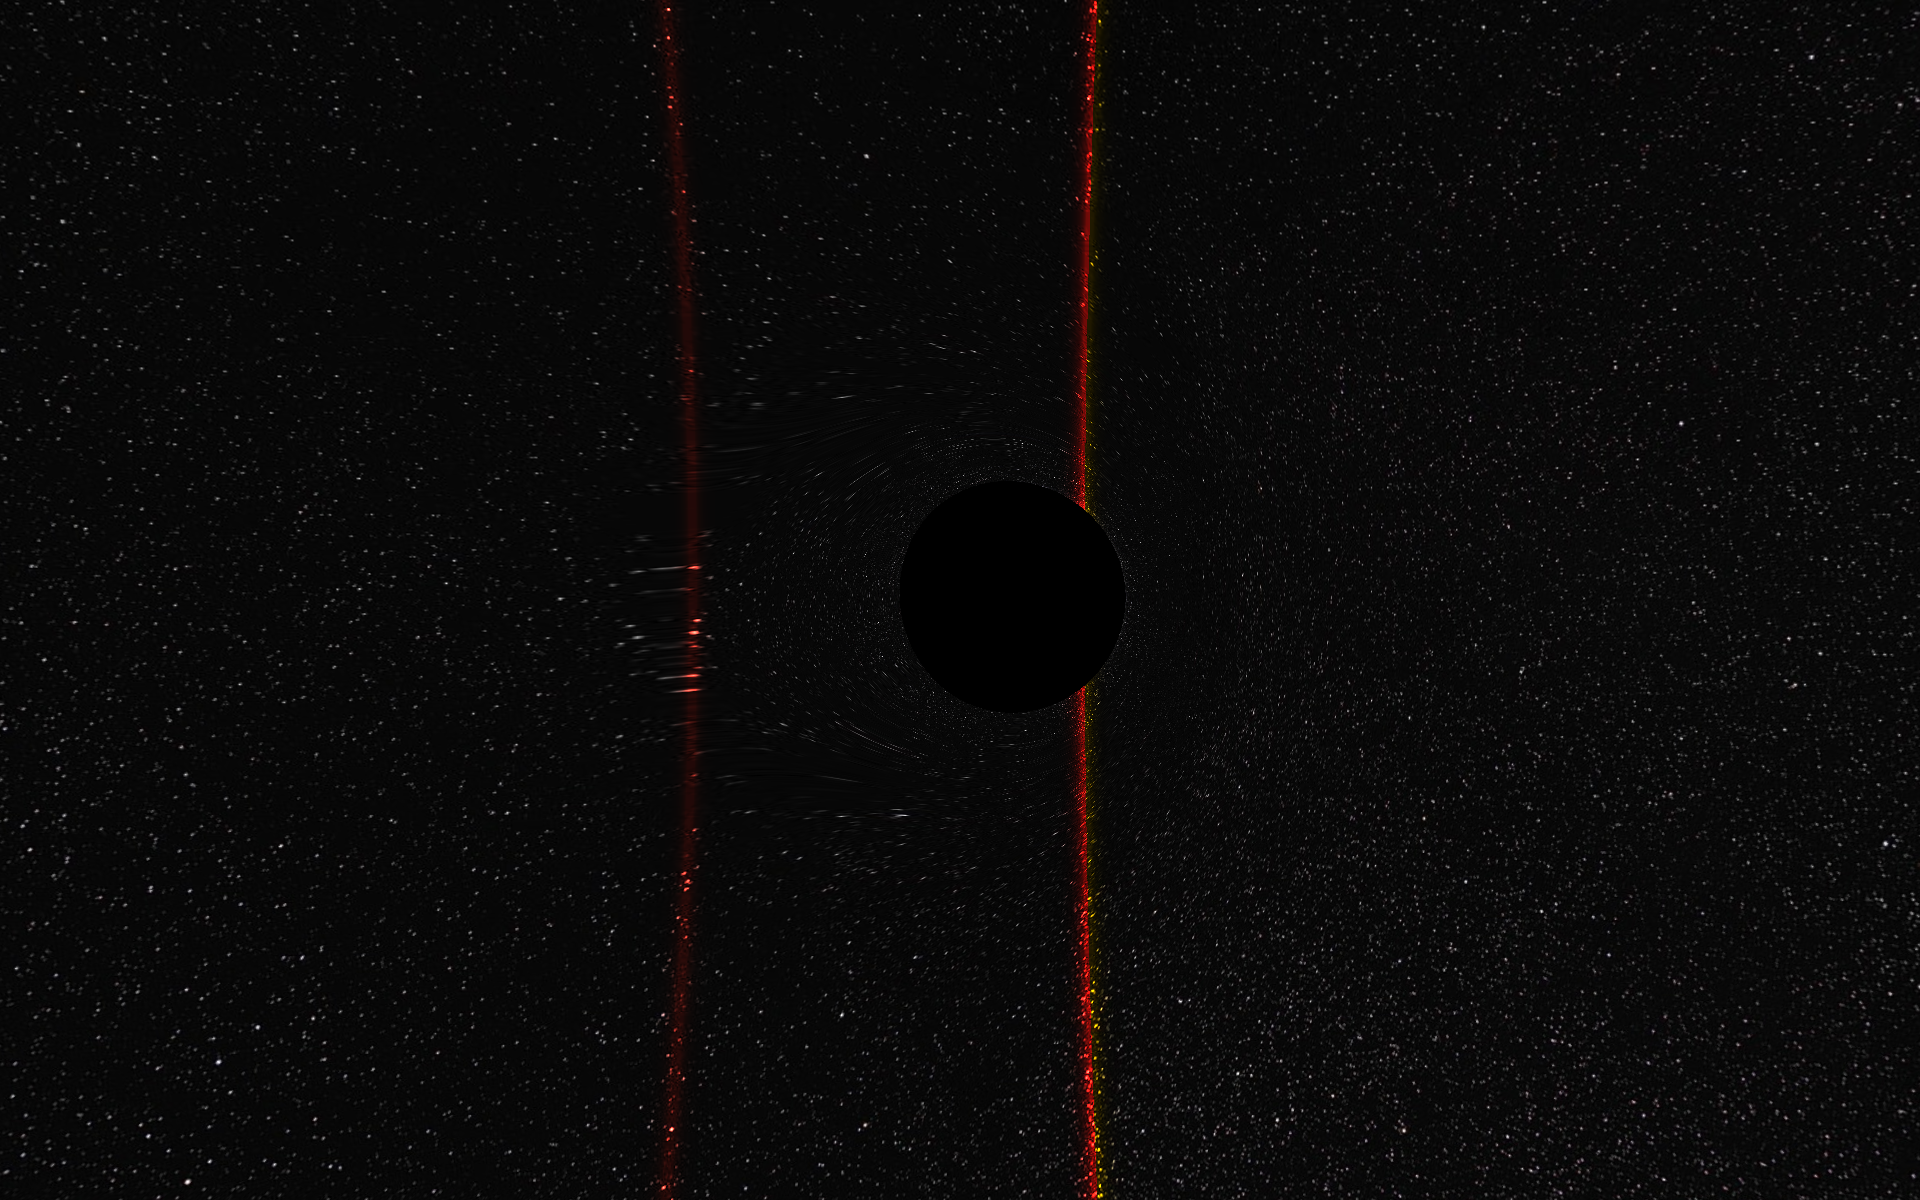
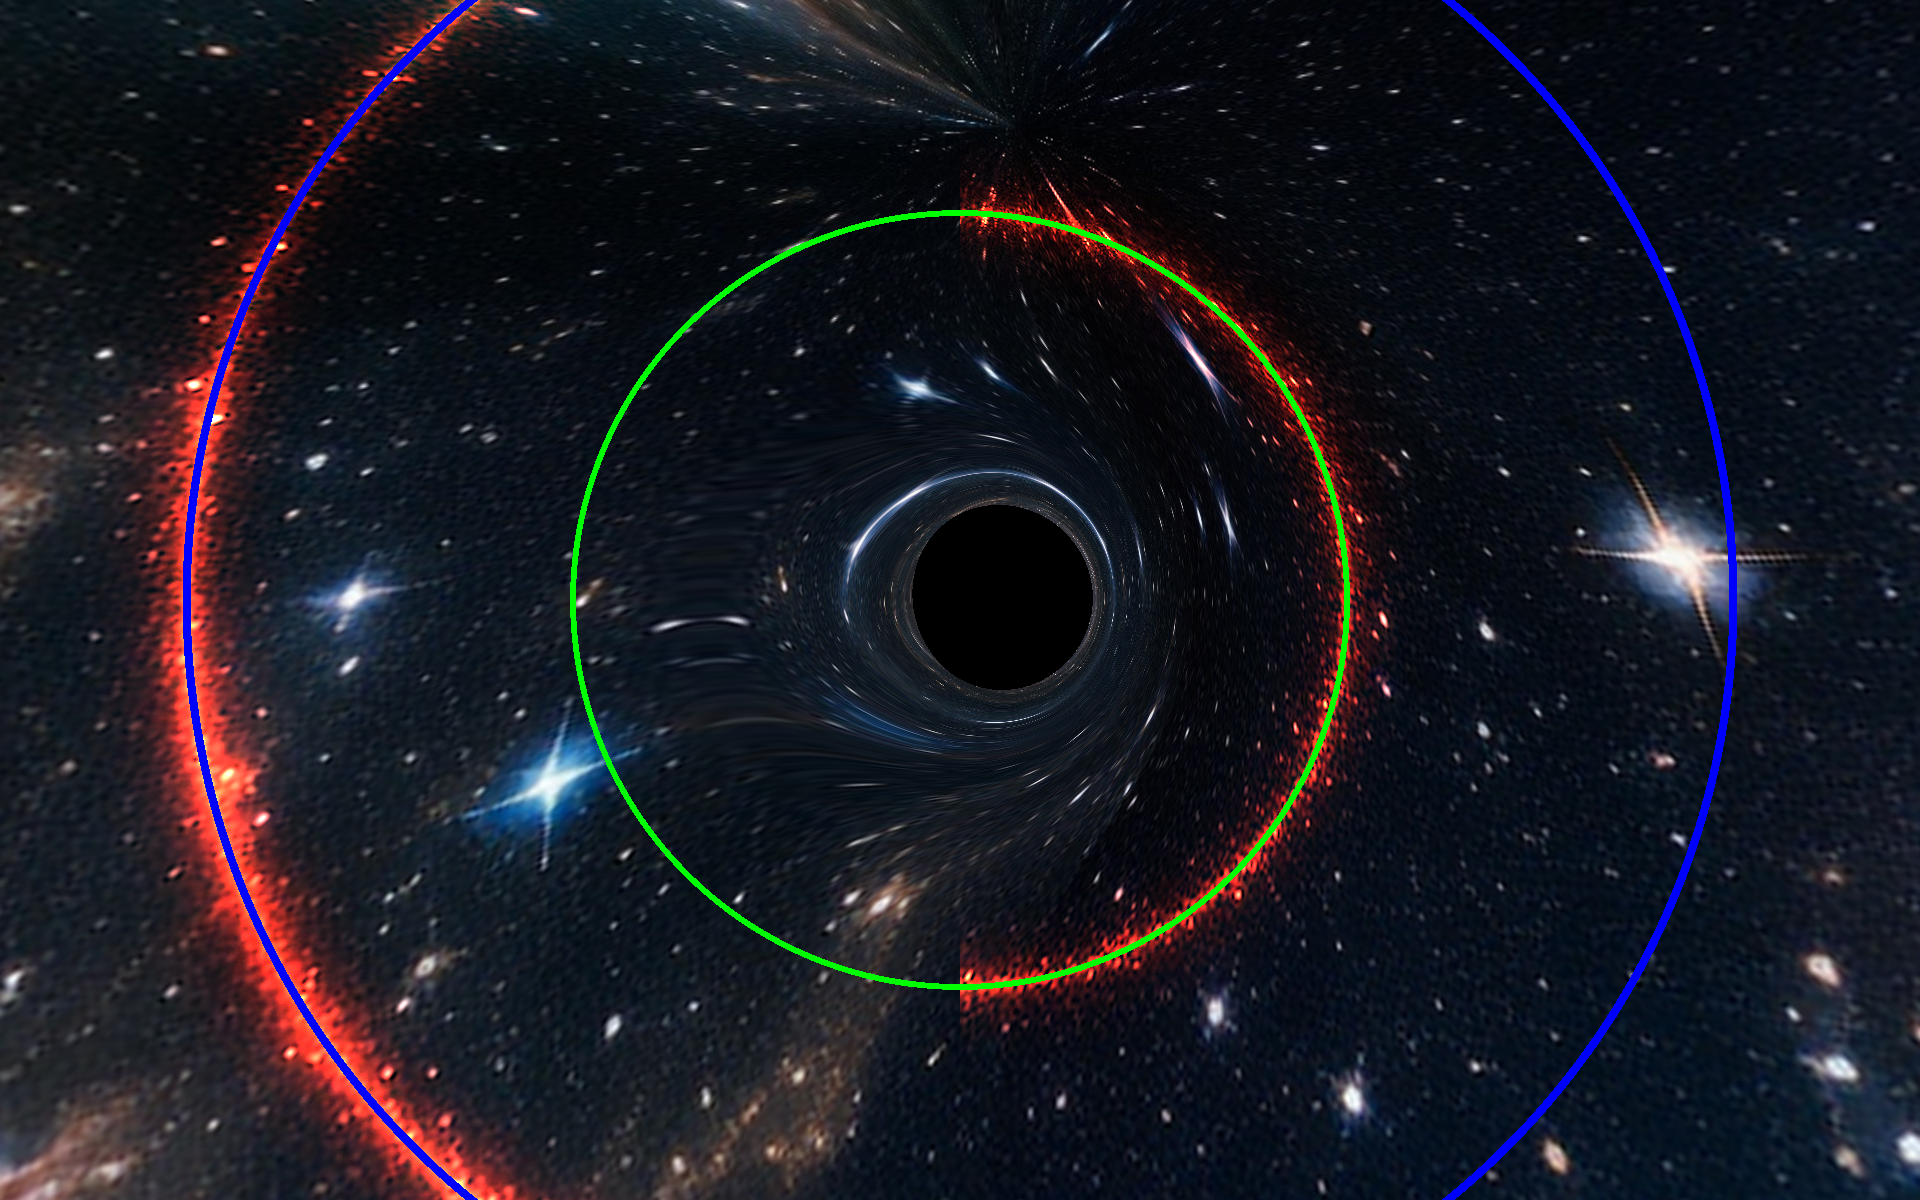
Updated carter_Q to use a better version, updated photon ring to not be vertical but still some issues.

diff --git a/src/main.c b/src/main.c
@@ -68,12 +68,12 @@ int main() {
 
     // Replace the skybox loading code with:
     const char* cubemap_faces[6] = {
-        "textures/px.jpg",  // positive x
-        "textures/nx.jpg",   // negative x
-        "textures/py.jpg",    // positive y
-        "textures/ny.jpg", // negative y
-        "textures/pz.jpg",  // positive z
-        "textures/nz.jpg"    // negative z
+        "textures2/px.jpg",  // positive x
+        "textures2/nx.jpg",   // negative x
+        "textures2/py.jpg",    // positive y
+        "textures2/ny.jpg", // negative y
+        "textures2/pz.jpg",  // positive z
+        "textures2/nz.jpg"    // negative z
     };
     
     GLuint skybox_texture = create_cubemap_texture(cubemap_faces);
@@ -101,7 +101,7 @@ int main() {
     setup_fullscreen_quad(&VAO, &VBO);
 
     //setup the BH parameters
-    BlackHoleParams params = init_BH_params(1.0, 0.8, 20.0); // Mass and distance from black hole
+    BlackHoleParams params = init_BH_params(1.0, 0.8, 25.0); // Mass and distance from black hole
 
      // Initialize SDL_image for PNG saving
     if (IMG_Init(IMG_INIT_PNG) == 0) {
